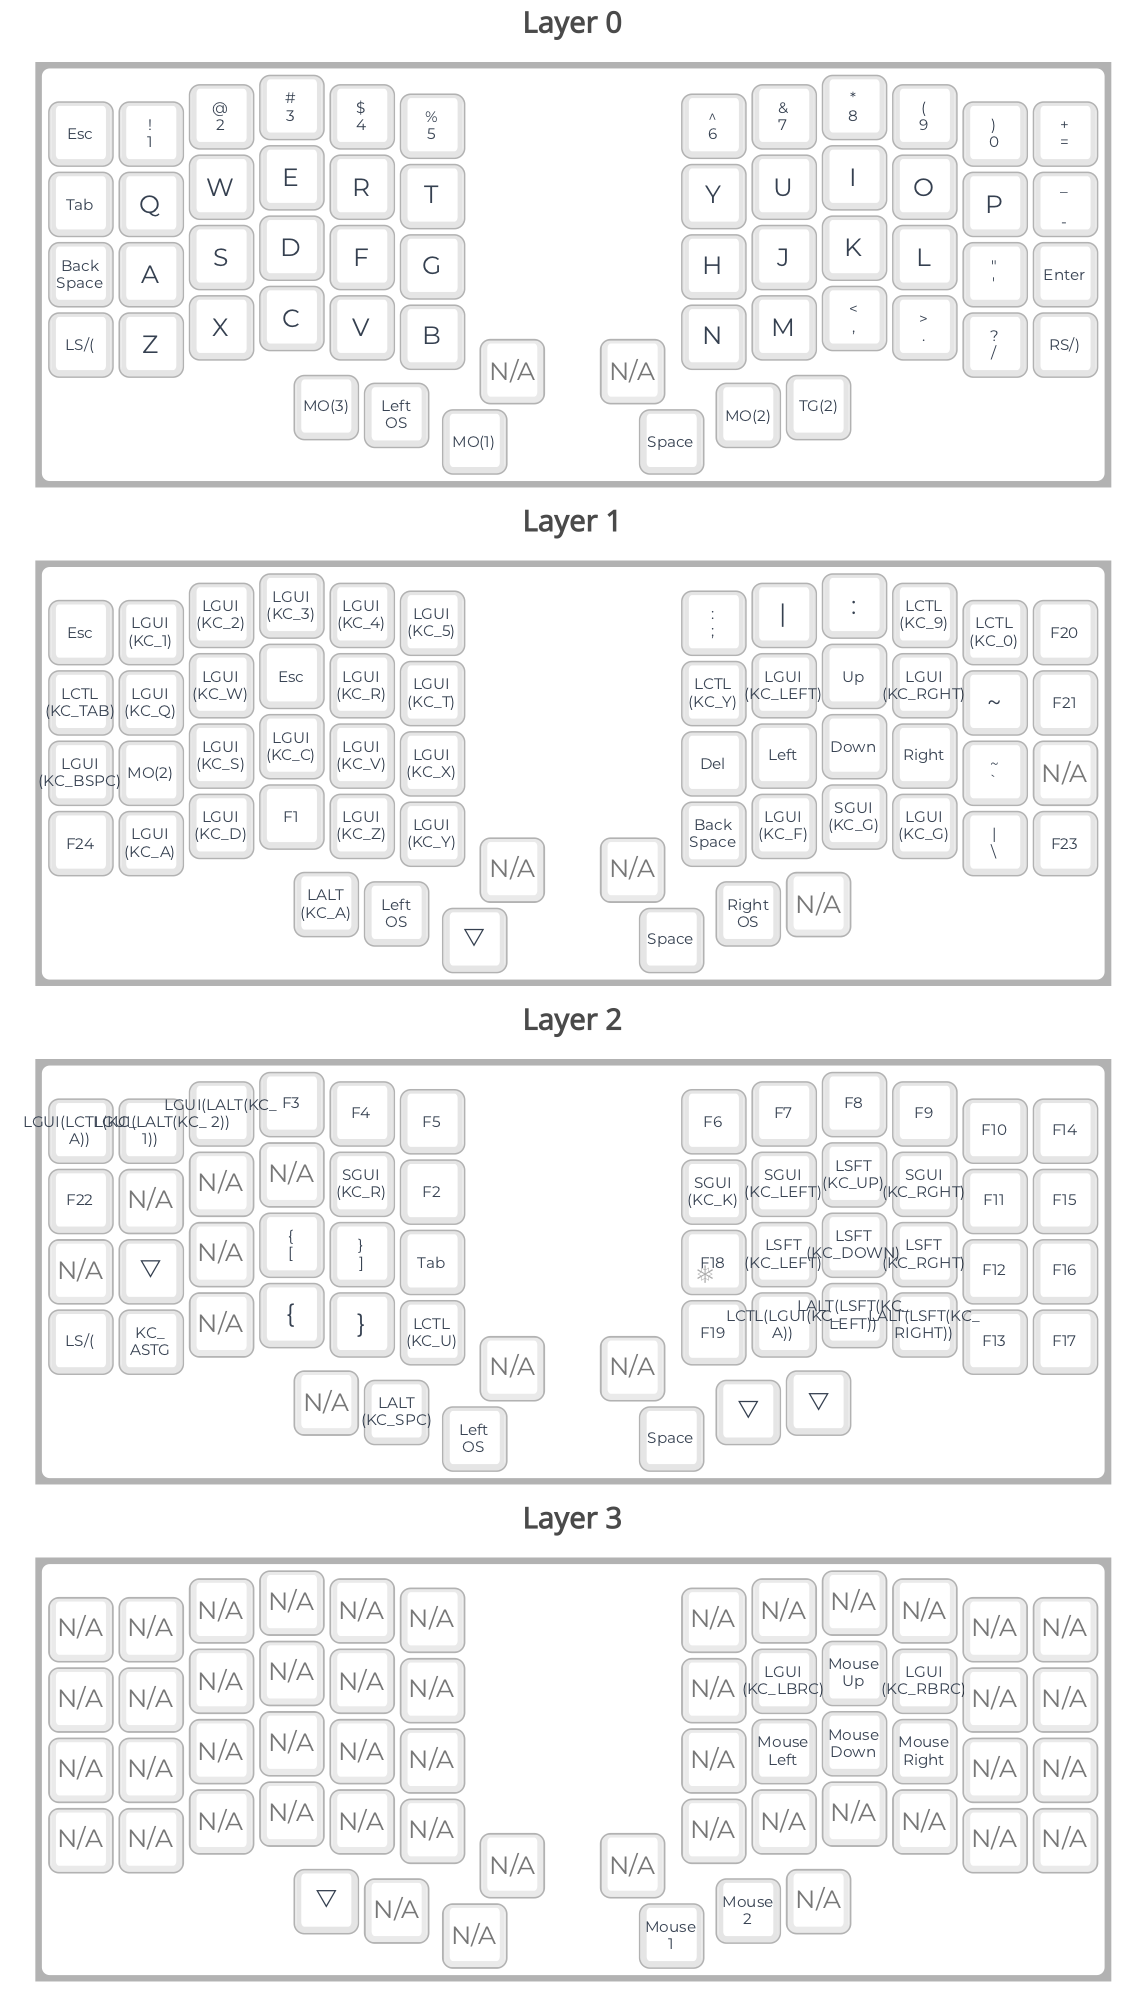
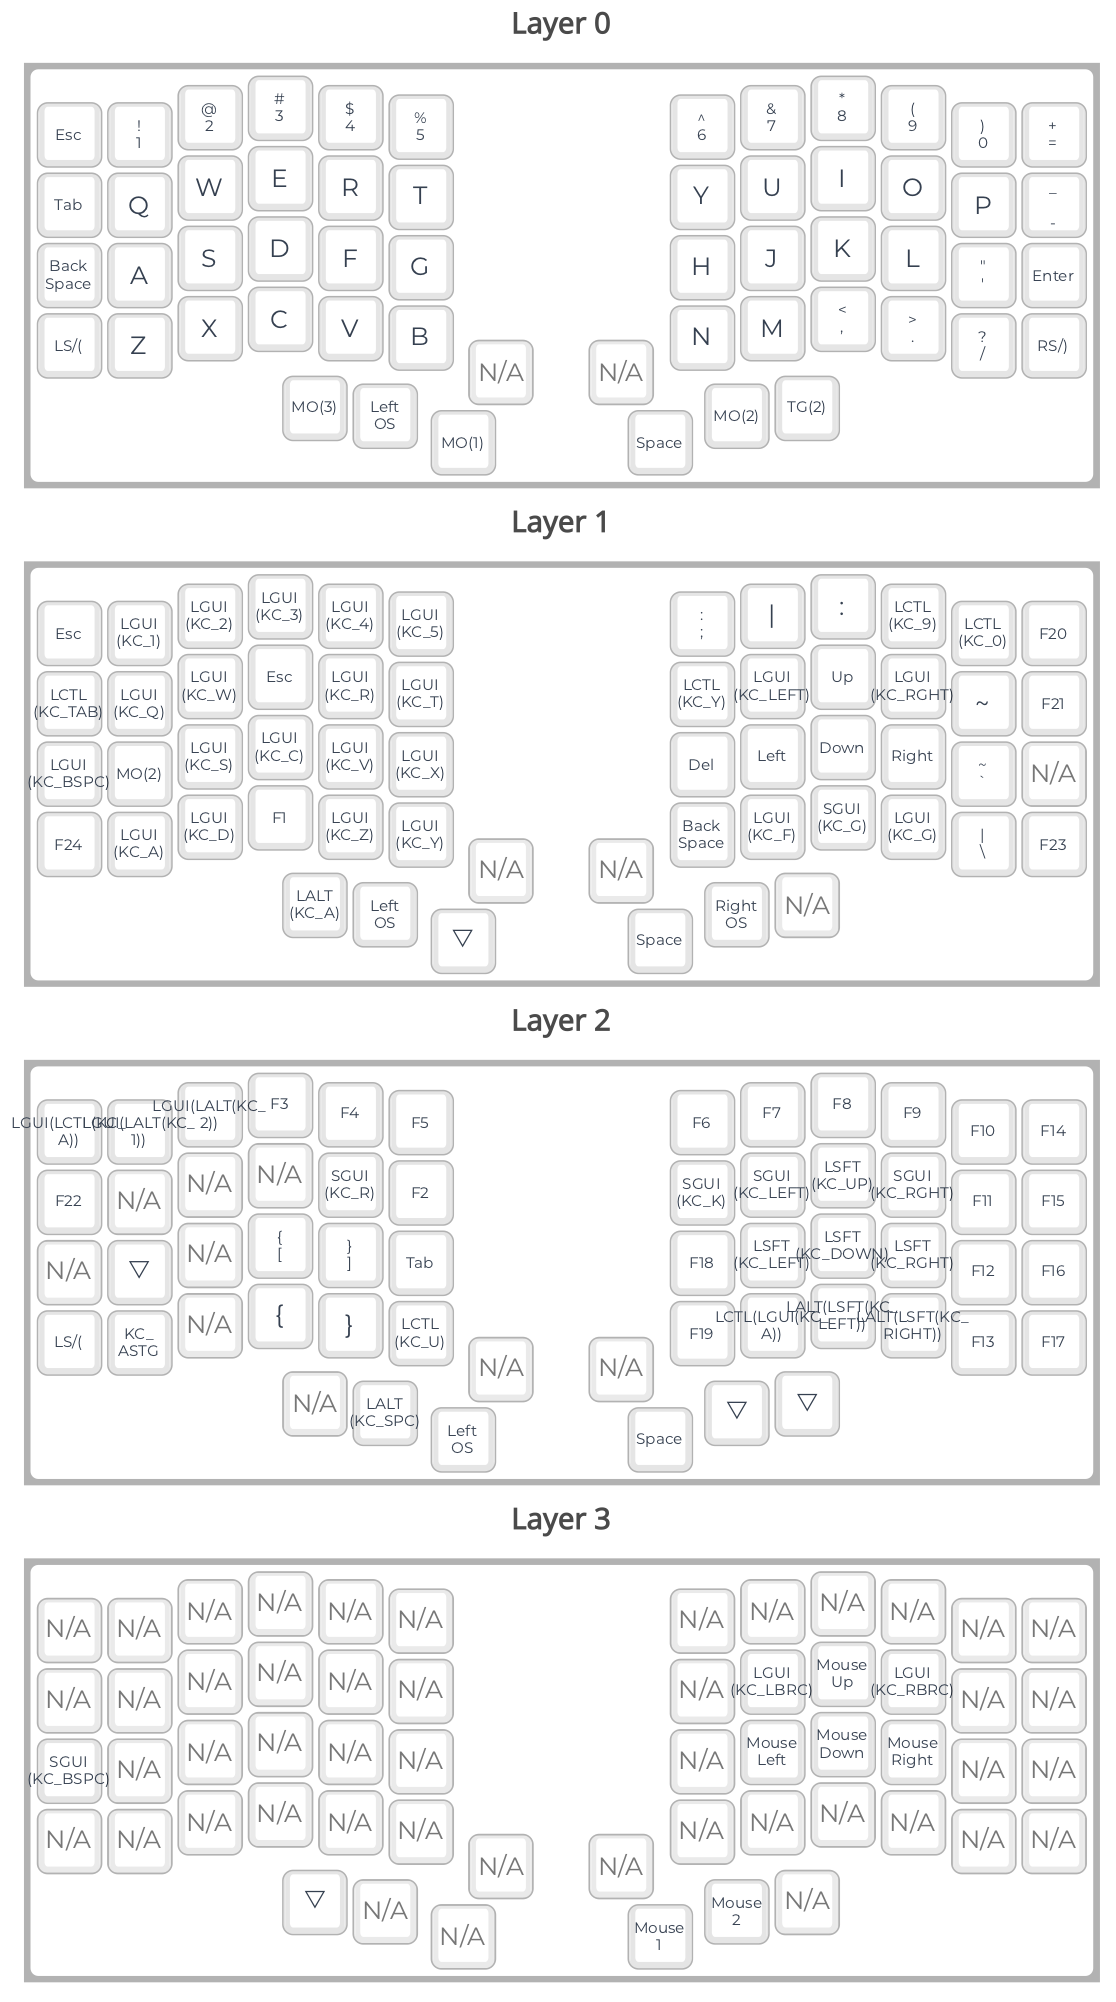
Added empty trash shortcut

diff --git a/keyboards/keebio-iris/jhelvy/keymap.c b/keyboards/keebio-iris/jhelvy/keymap.c
@@ -39,7 +39,7 @@ const uint16_t PROGMEM keymaps[][MATRIX_ROWS][MATRIX_COLS] = {
 [_LAYER3] = LAYOUT( \
                    KC_NO, KC_NO,   KC_NO,   KC_NO,   KC_NO,   KC_NO,                              KC_NO,   KC_NO,   KC_NO,   KC_NO,   KC_NO,      KC_NO, \
          KC_NO, KC_NO,   KC_NO,   KC_NO,   KC_NO,   KC_NO,                              KC_NO,LGUI(KC_LBRC), KC_MS_U,LGUI(KC_RBRC),   KC_NO,      KC_NO, \
-          KC_NO,KC_NO,   KC_NO,   KC_NO,   KC_NO,   KC_NO,                              KC_NO, KC_MS_L, KC_MS_D, KC_MS_R,      KC_NO,   KC_NO, \
+  SGUI(KC_BSPC),KC_NO,   KC_NO,   KC_NO,   KC_NO,   KC_NO,                              KC_NO, KC_MS_L, KC_MS_D, KC_MS_R,      KC_NO,   KC_NO, \
           KC_NO,KC_NO,   KC_NO,   KC_NO,   KC_NO,   KC_NO,     KC_NO,            KC_NO, KC_NO,   KC_NO,      KC_NO,  KC_NO,    KC_NO,   KC_NO, \
                                        KC_TRNS, KC_NO,    KC_NO,                   KC_BTN1,KC_BTN2,       KC_NO)
 
@@ -76,6 +76,3 @@ void encoder_update_user(uint8_t index, bool clockwise) {
         }
     }
 }
-
-
-
